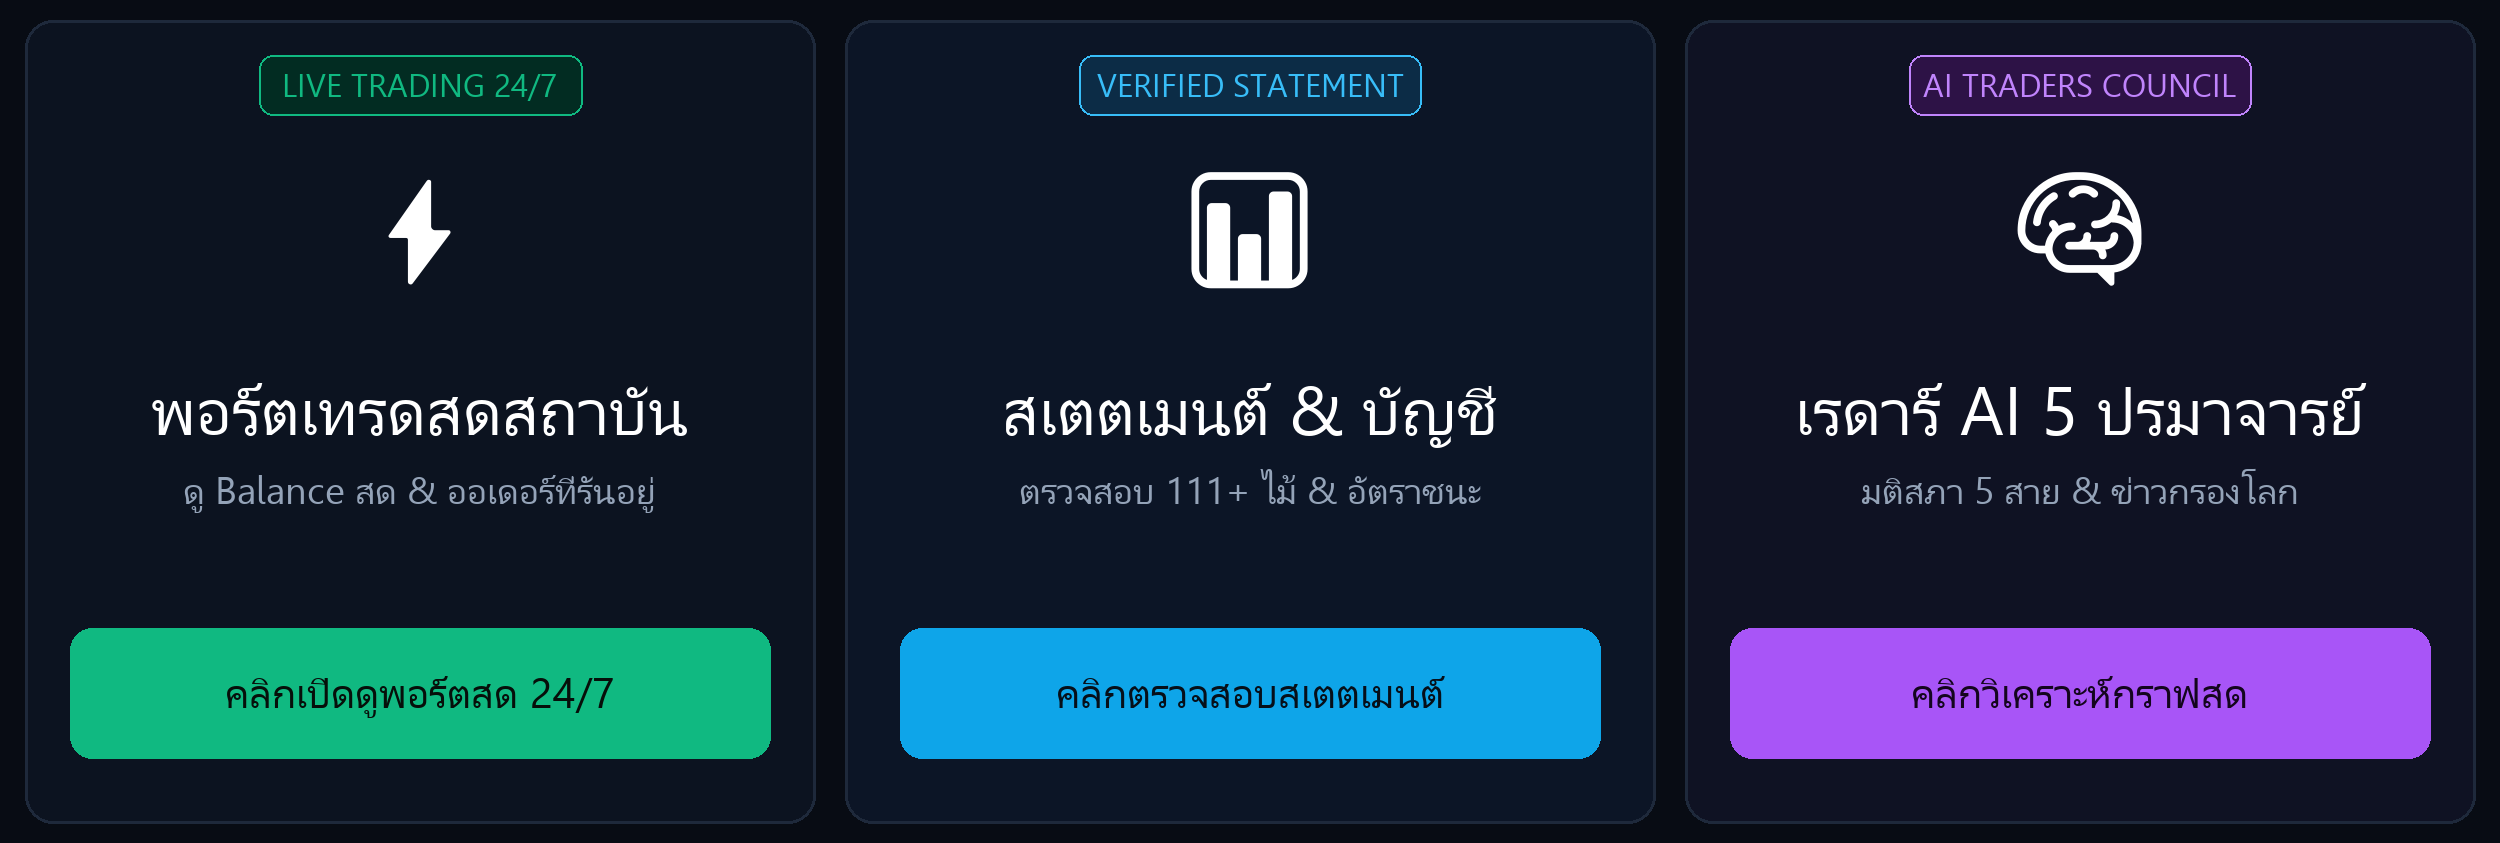
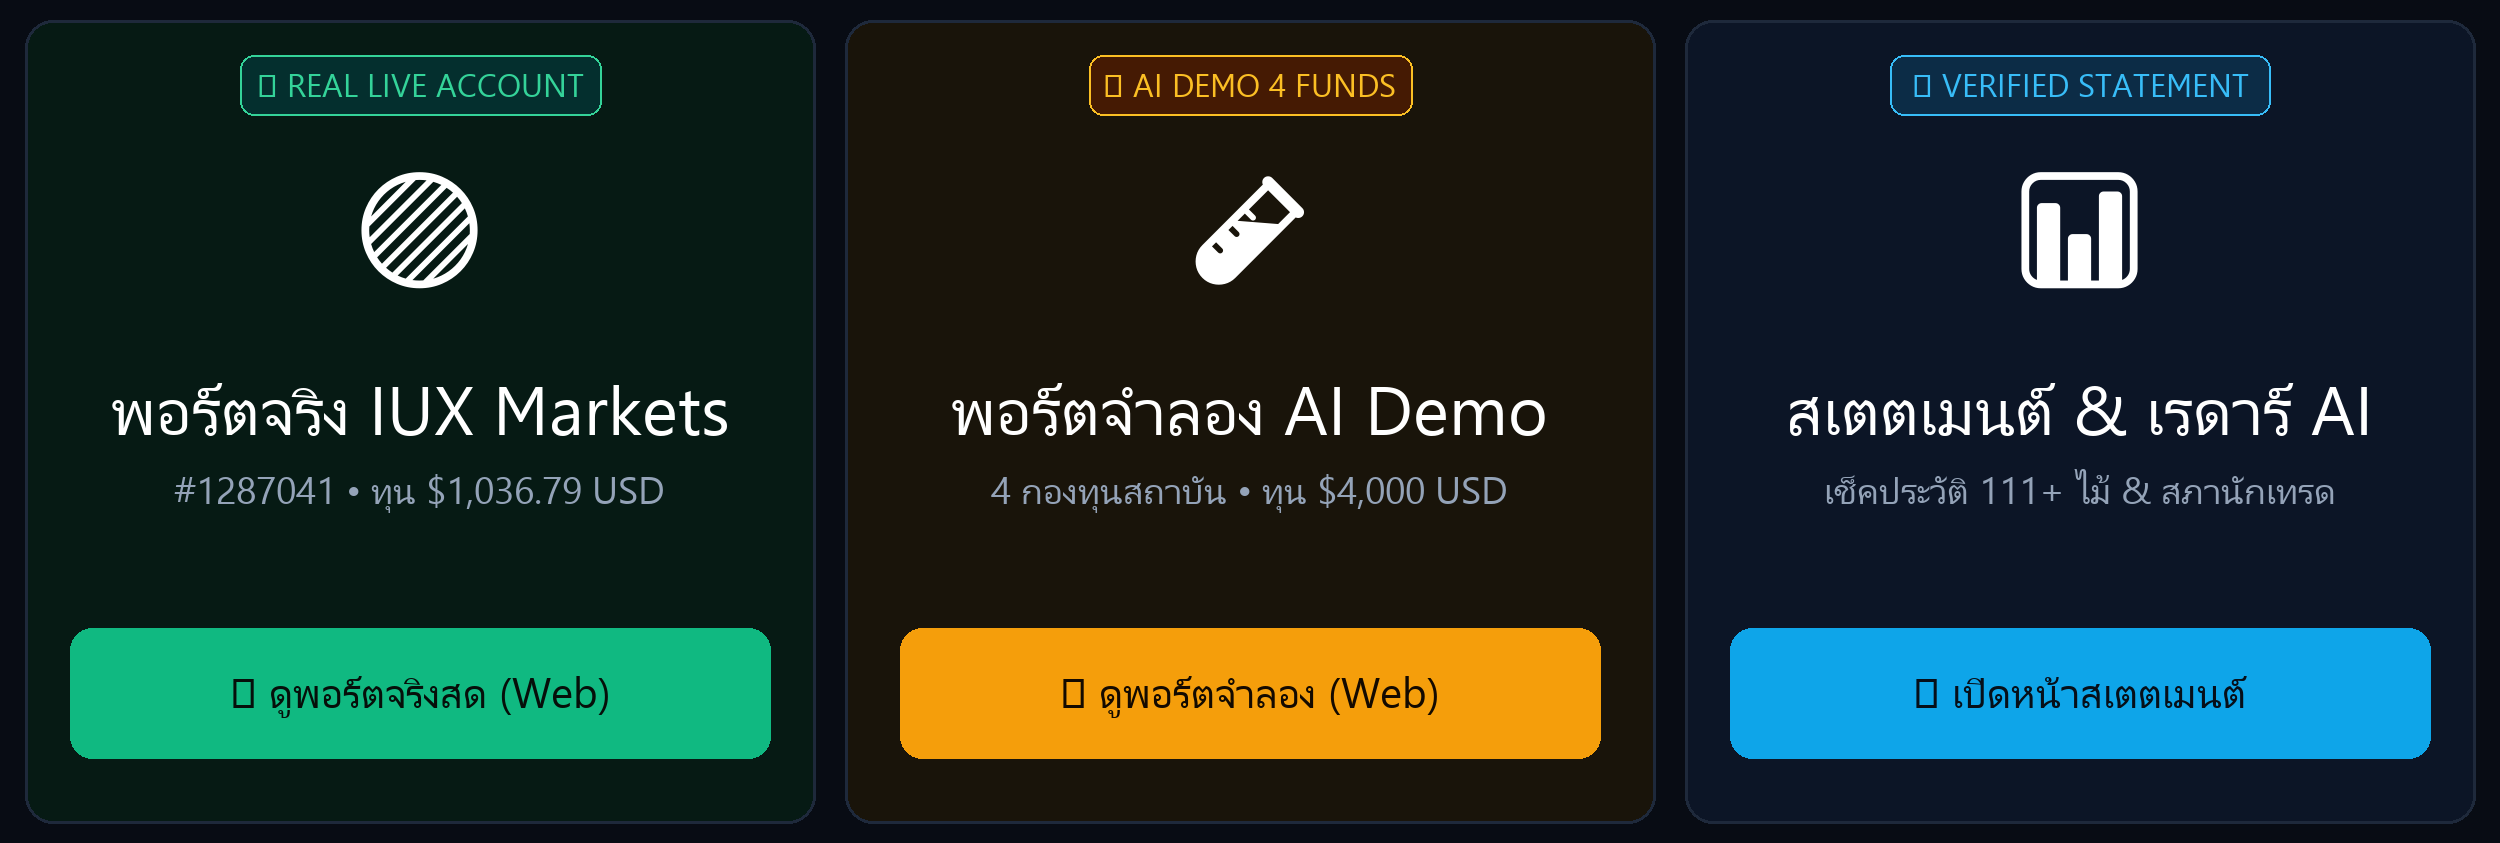
feat: Add Real IUX and Demo buttons to LINE Rich Menu and Portal Card

diff --git a/generate_rich_menu_image.py b/generate_rich_menu_image.py
@@ -48,45 +48,45 @@ def create_rich_menu_image(output_path="rich_menu_2500x843.png"):
     cols = [
         {
             "x0": 25, "x1": 815,
-            "tag": "LIVE TRADING 24/7",
-            "tag_color": (16, 185, 129),
-            "tag_bg": (2, 44, 34),
-            "icon": "⚡",
-            "title": "พอร์ตเทรดสดสถาบัน",
-            "sub": "ดู Balance สด & ออเดอร์ที่รันอยู่",
-            "btn_text": "คลิกเปิดดูพอร์ตสด 24/7",
+            "tag": "🟢 REAL LIVE ACCOUNT",
+            "tag_color": (52, 211, 153),
+            "tag_bg": (4, 47, 46),
+            "icon": "🟢",
+            "title": "พอร์ตจริง IUX Markets",
+            "sub": "#1287041 • ทุน $1,036.79 USD",
+            "btn_text": "🟢 ดูพอร์ตจริงสด (Web)",
             "btn_bg": (16, 185, 129),
             "btn_fg": (6, 15, 10),
-            "border": (16, 185, 129, 120),
-            "card_bg": (12, 19, 32)
+            "border": (16, 185, 129),
+            "card_bg": (6, 26, 20)
         },
         {
             "x0": 845, "x1": 1655,
-            "tag": "VERIFIED STATEMENT",
-            "tag_color": (56, 189, 248),
-            "tag_bg": (12, 44, 70),
-            "icon": "📊",
-            "title": "สเตตเมนต์ & บัญชี",
-            "sub": "ตรวจสอบ 111+ ไม้ & อัตราชนะ",
-            "btn_text": "คลิกตรวจสอบสเตตเมนต์",
-            "btn_bg": (14, 165, 233),
-            "btn_fg": (6, 15, 25),
-            "border": (56, 189, 248, 120),
-            "card_bg": (12, 21, 38)
+            "tag": "🧪 AI DEMO 4 FUNDS",
+            "tag_color": (251, 191, 36),
+            "tag_bg": (69, 26, 3),
+            "icon": "🧪",
+            "title": "พอร์ตจำลอง AI Demo",
+            "sub": "4 กองทุนสถาบัน • ทุน $4,000 USD",
+            "btn_text": "🧪 ดูพอร์ตจำลอง (Web)",
+            "btn_bg": (245, 158, 11),
+            "btn_fg": (20, 10, 0),
+            "border": (245, 158, 11),
+            "card_bg": (25, 20, 10)
         },
         {
             "x0": 1685, "x1": 2475,
-            "tag": "AI TRADERS COUNCIL",
-            "tag_color": (192, 132, 252),
-            "tag_bg": (45, 18, 70),
-            "icon": "🧠",
-            "title": "เรดาร์ AI 5 ปรมาจารย์",
-            "sub": "มติสภา 5 สาย & ข่าวกรองโลก",
-            "btn_text": "คลิกวิเคราะห์กราฟสด",
-            "btn_bg": (168, 85, 247),
-            "btn_fg": (20, 5, 30),
-            "border": (192, 132, 252, 120),
-            "card_bg": (15, 18, 35)
+            "tag": "📊 VERIFIED STATEMENT",
+            "tag_color": (56, 189, 248),
+            "tag_bg": (12, 44, 70),
+            "icon": "📊",
+            "title": "สเตตเมนต์ & เรดาร์ AI",
+            "sub": "เช็คประวัติ 111+ ไม้ & สภานักเทรด",
+            "btn_text": "📊 เปิดหน้าสเตตเมนต์",
+            "btn_bg": (14, 165, 233),
+            "btn_fg": (6, 15, 25),
+            "border": (56, 189, 248),
+            "card_bg": (12, 21, 38)
         }
     ]
 

diff --git a/line_flex_generator.py b/line_flex_generator.py
@@ -1235,12 +1235,23 @@ class LineFlexService:
                     {
                         "type": "button",
                         "style": "primary",
-                        "color": "#10B981",
+                        "color": "#059669",
                         "height": "sm",
                         "action": {
                             "type": "uri",
-                            "label": "🌐 เข้าสู่ระบบพอร์ตเทรด (Web Dashboard)",
-                            "uri": web_url
+                            "label": "🟢 ดูพอร์ตจริง IUX ($1,036.79)",
+                            "uri": "https://institutional-trading-system.vercel.app/?account=real&tab=livetrade"
+                        }
+                    },
+                    {
+                        "type": "button",
+                        "style": "primary",
+                        "color": "#D97706",
+                        "height": "sm",
+                        "action": {
+                            "type": "uri",
+                            "label": "🧪 ดูพอร์ตจำลอง AI Demo ($4,000)",
+                            "uri": "https://institutional-trading-system.vercel.app/?account=demo&tab=livetrade"
                         }
                     },
                     {
@@ -1249,14 +1260,14 @@ class LineFlexService:
                         "height": "sm",
                         "action": {
                             "type": "uri",
-                            "label": "📊 ดูสเตตเมนต์ 111+ ไม้ & ประวัติ AI",
-                            "uri": web_url
+                            "label": "📊 สเตตเมนต์ & เรดาร์สภา AI",
+                            "uri": "https://institutional-trading-system.vercel.app/"
                         }
                     }
                 ]
             }
         }
-        return {"type": "flex", "altText": f"🏛 เข้าสู่ระบบพอร์ตเทรดสถาบัน 24/7 (${total_bal:,.2f} USD) | ADStrade.bot", "contents": flex_bubble}
+        return {"type": "flex", "altText": f"🏛 เลือกระบบพอร์ตเทรด: 🟢 พอร์ตจริง IUX | 🧪 พอร์ตจำลอง Demo | ADStrade.bot", "contents": flex_bubble}
 
 
 if __name__ == "__main__":

diff --git a/setup_line_rich_menu.py b/setup_line_rich_menu.py
@@ -47,8 +47,8 @@ def setup_rich_menu():
             "height": 843
         },
         "selected": True,
-        "name": "Institutional Trading Web Portal",
-        "chatBarText": "เมนูพอร์ตสด",
+        "name": "Institutional Trading Dual Portfolio Menu",
+        "chatBarText": "พอร์ตจริง/Demo",
         "areas": [
             {
                 "bounds": {
@@ -59,8 +59,8 @@ def setup_rich_menu():
                 },
                 "action": {
                     "type": "uri",
-                    "label": "Live Portfolio",
-                    "uri": WEB_URL
+                    "label": "พอร์ตจริง IUX",
+                    "uri": "https://institutional-trading-system.vercel.app/?account=real&tab=livetrade"
                 }
             },
             {
@@ -72,8 +72,8 @@ def setup_rich_menu():
                 },
                 "action": {
                     "type": "uri",
-                    "label": "Trade Statement",
-                    "uri": WEB_URL
+                    "label": "พอร์ตจำลอง Demo",
+                    "uri": "https://institutional-trading-system.vercel.app/?account=demo&tab=livetrade"
                 }
             },
             {
@@ -85,8 +85,8 @@ def setup_rich_menu():
                 },
                 "action": {
                     "type": "uri",
-                    "label": "AI Traders Council",
-                    "uri": WEB_URL
+                    "label": "สเตตเมนต์ & เรดาร์",
+                    "uri": "https://institutional-trading-system.vercel.app/"
                 }
             }
         ]
